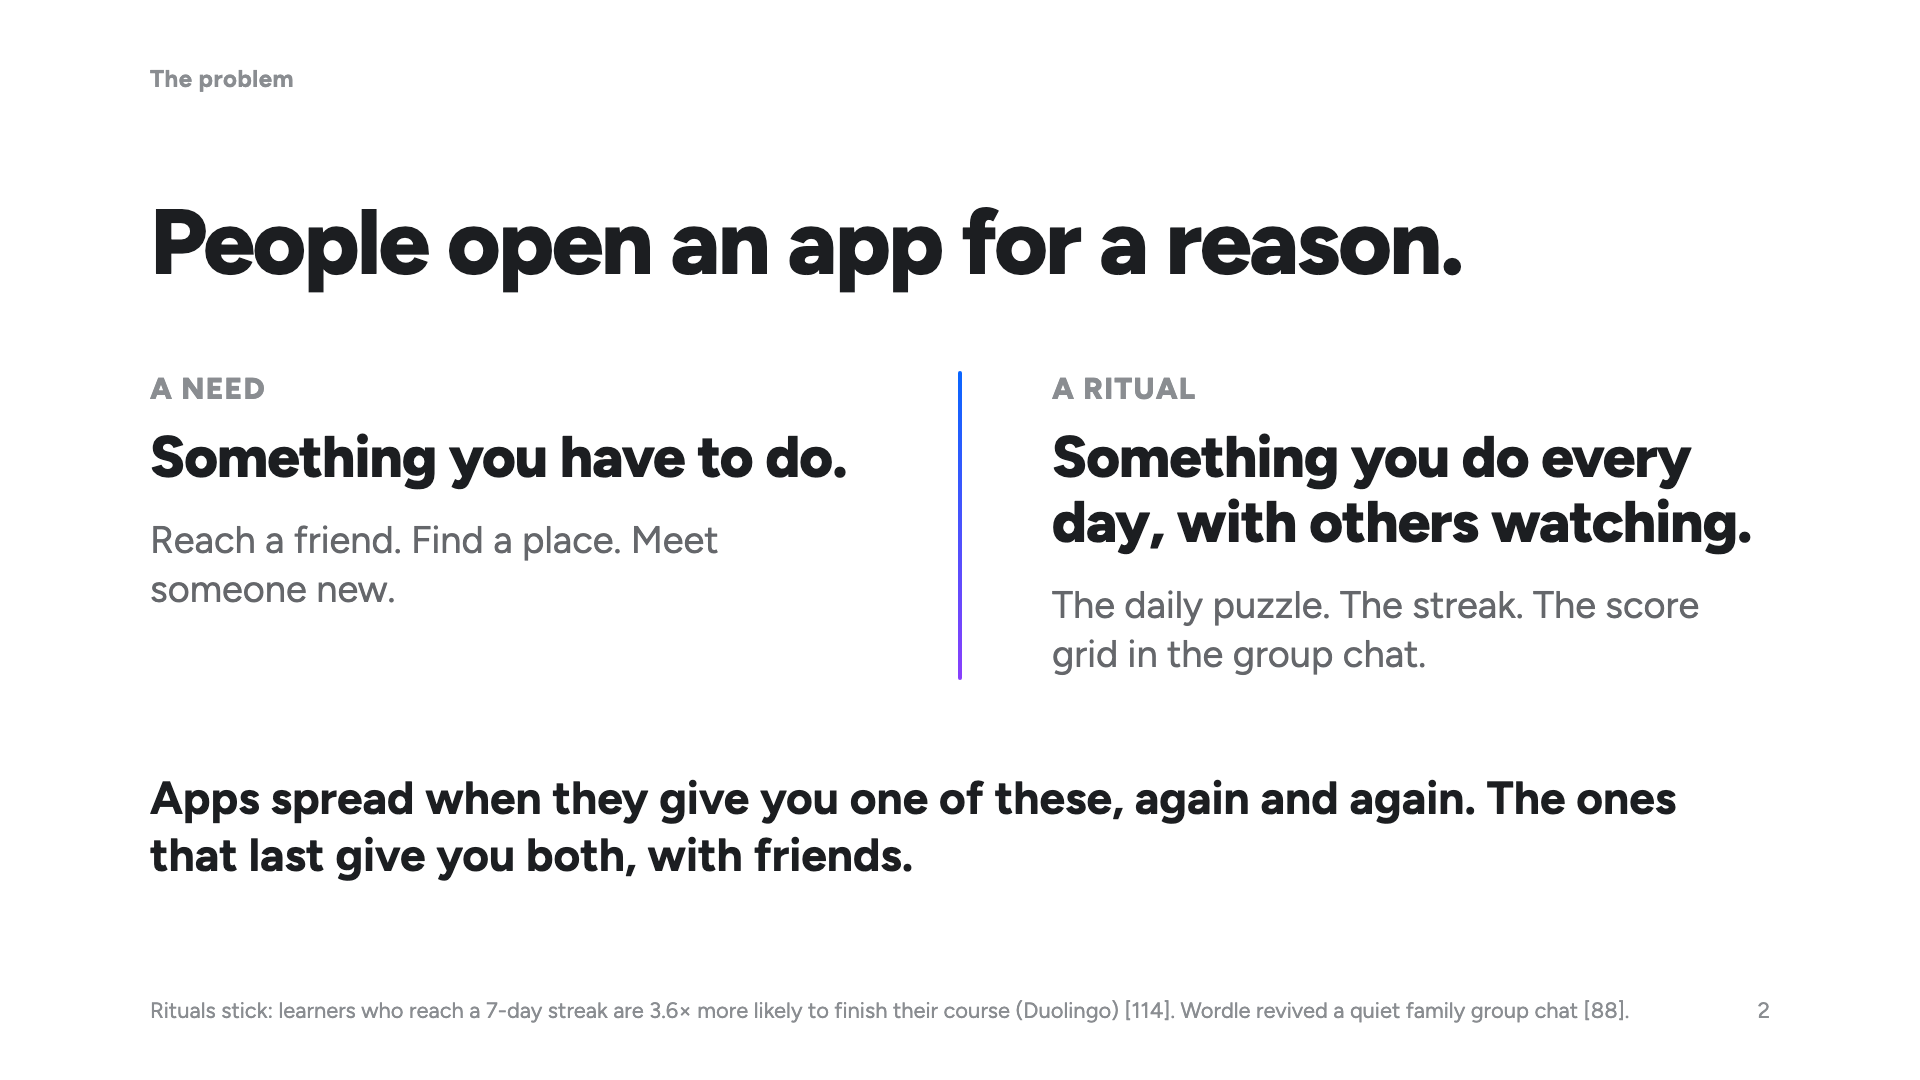
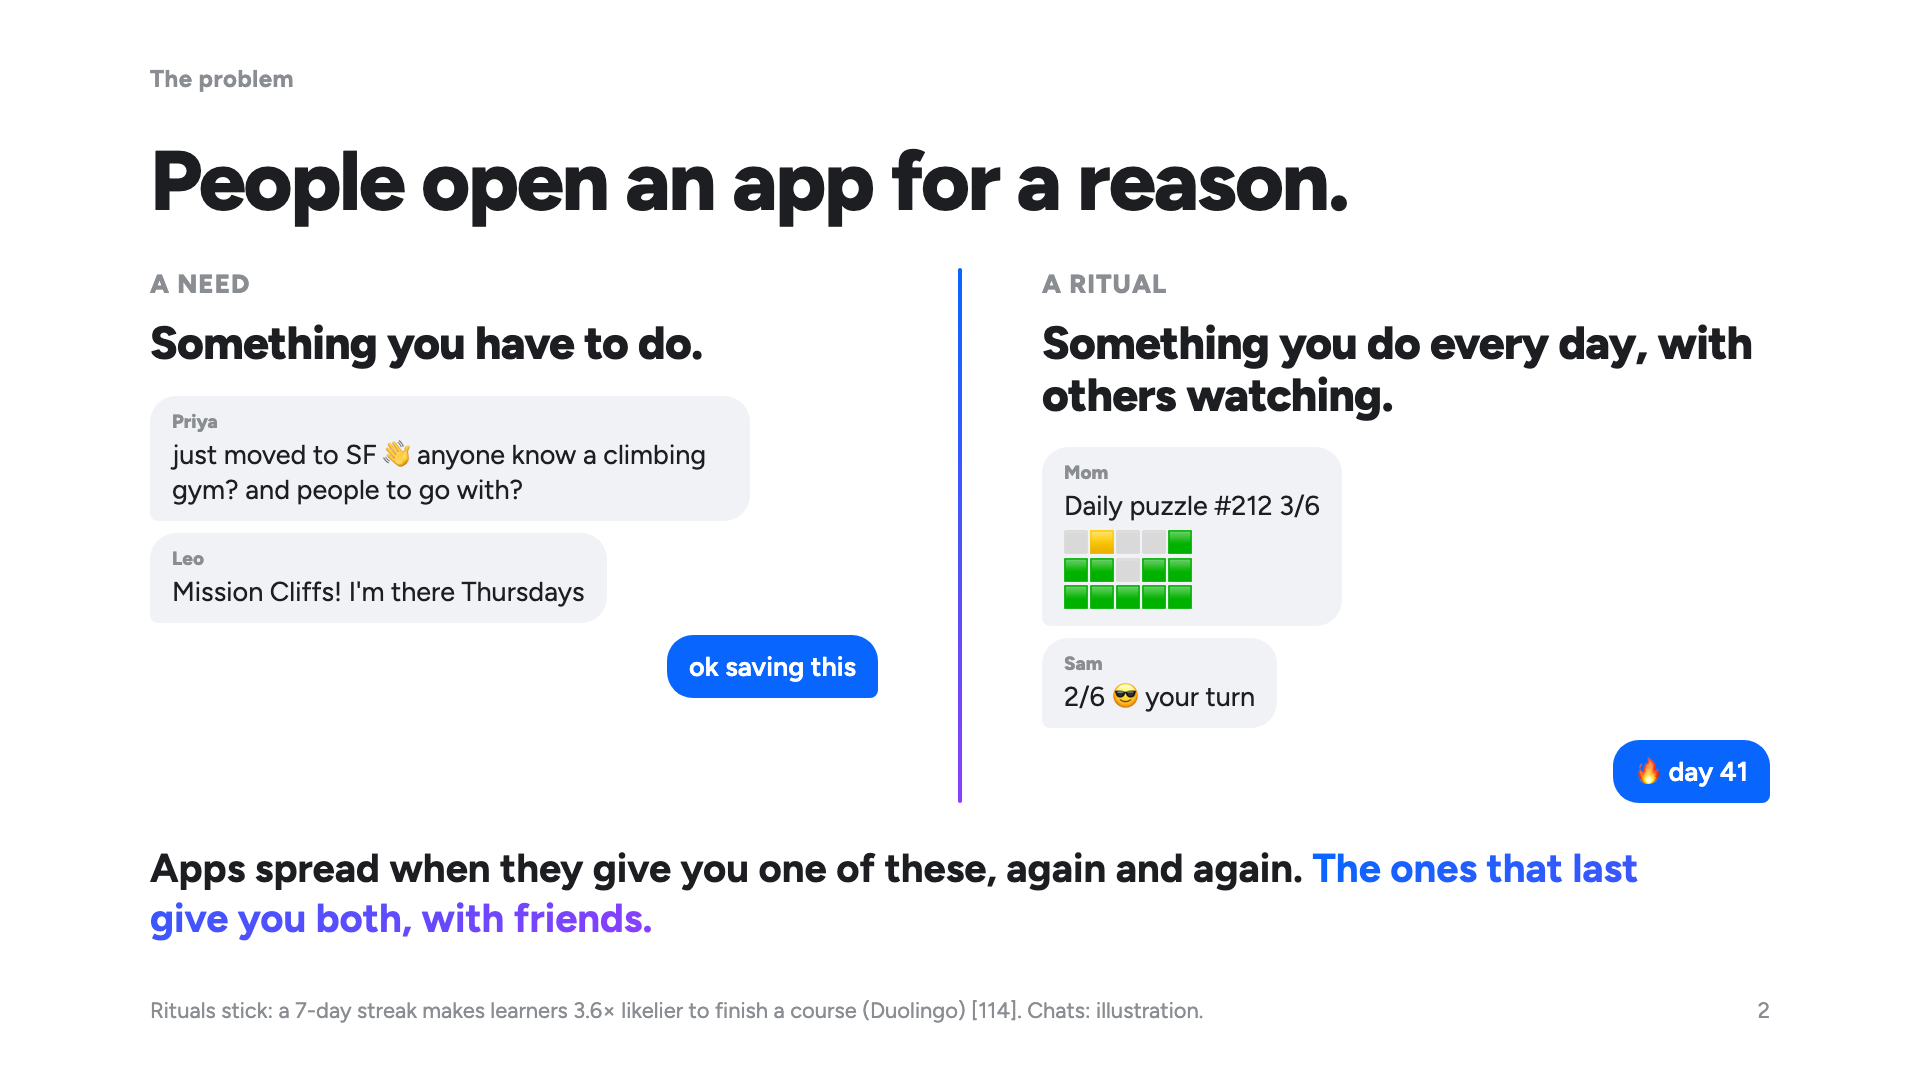
Slides 2, 10, 11: chat mocks for a need and a ritual, a captioned commits chart, and only the Muse models we use in the closing footer

diff --git a/docs/pr/slides/deck.html b/docs/pr/slides/deck.html
@@ -380,6 +380,21 @@ h2 { font-size: 96px; line-height: 1.04; font-weight: 800; letter-spacing: -.025
 .hxmm img { flex: none; width: 92px; height: 150px; object-fit: cover; object-position: top; border-radius: 12px; display: block; box-shadow: 0 8px 18px rgba(16,24,64,.16); }
 .hxmm figcaption { font-size: 13px; font-weight: 700; color: var(--sub); margin-top: 6px; line-height: 1.15; }
 .hxmm p { font-size: 21px; color: var(--sub); line-height: 1.3; } .hxmm p b { font-size: 26px; margin-bottom: 4px; color: var(--ink); }
+
+/* slide 2: chat mocks */
+.why2 .why2g { margin-top: 44px; gap: 80px; } .why2 h2 { font-size: 84px; }
+.why2 .wc b { font-size: 46px; } .why2 .wc em { font-size: 26px; }
+.chat { margin-top: 26px; display: flex; flex-direction: column; gap: 12px; }
+.msg { max-width: 600px; font-size: 27px; line-height: 1.3; padding: 14px 22px; border-radius: 26px; }
+.msg.in { background: var(--soft); align-self: flex-start; border-bottom-left-radius: 8px; color: var(--ink); }
+.msg.me { background: var(--blue); color: #fff; align-self: flex-end; border-bottom-right-radius: 8px; font-weight: 600; }
+.msg i { display: block; font-style: normal; font-size: 19px; font-weight: 800; color: var(--muted); margin-bottom: 2px; }
+.msg .grid { display: block; font-size: 24px; line-height: 1.15; margin-top: 6px; letter-spacing: 2px; }
+.why2 .why2s { font-size: 40px; margin-top: 40px; }
+
+.cph2 { display: flex; align-items: flex-end; gap: 50px; margin-top: 24px; }
+.cpl { flex: none; width: 400px; padding-bottom: 50px; } .cpl b { display: block; white-space: nowrap; font-size: 64px; font-weight: 900; background: var(--grad); -webkit-background-clip: text; color: transparent; }
+.cpl span { display: block; font-size: 26px; color: var(--ink); font-weight: 700; line-height: 1.25; margin-top: 4px; } .cpl small { display: block; font-size: 20px; color: var(--muted); margin-top: 12px; }
 </style>
 </head>
 <body>
@@ -399,12 +414,14 @@ h2 { font-size: 96px; line-height: 1.04; font-weight: 800; letter-spacing: -.025
   <div class="label">The problem</div>
   <h2>People open an app for a reason.</h2>
   <div class="why2g">
-    <div class="wc"><em>A need</em><b>Something you have to do.</b><p>Reach a friend. Find a place. Meet someone new.</p></div>
+    <div class="wc"><em>A need</em><b>Something you have to do.</b>
+      <div class="chat"><div class="msg in"><i>Priya</i>just moved to SF 👋 anyone know a climbing gym? and people to go with?</div><div class="msg in"><i>Leo</i>Mission Cliffs! I'm there Thursdays</div><div class="msg me">ok saving this</div></div></div>
     <div class="wdiv"></div>
-    <div class="wc"><em>A ritual</em><b>Something you do every day, with others watching.</b><p>The daily puzzle. The streak. The score grid in the group chat.</p></div>
+    <div class="wc"><em>A ritual</em><b>Something you do every day, with others watching.</b>
+      <div class="chat"><div class="msg in"><i>Mom</i>Daily puzzle #212 3/6<span class="grid">⬜🟨⬜⬜🟩<br>🟩🟩⬜🟩🟩<br>🟩🟩🟩🟩🟩</span></div><div class="msg in"><i>Sam</i>2/6 😎 your turn</div><div class="msg me">🔥 day 41</div></div></div>
   </div>
-  <div class="why2s">Apps spread when they give you one of these, again and again. The ones that last give you both, with friends.</div>
-  <div class="foot"><span>Rituals stick: learners who reach a 7-day streak are 3.6× more likely to finish their course (Duolingo) [114]. Wordle revived a quiet family group chat [88].</span><span class="pg"></span></div>
+  <div class="why2s">Apps spread when they give you one of these, again and again. <span class="grad">The ones that last give you both, with friends.</span></div>
+  <div class="foot"><span>Rituals stick: a 7-day streak makes learners 3.6× likelier to finish a course (Duolingo) [114]. Chats: illustration.</span><span class="pg"></span></div>
 </section>
 
 <section class="slide">
@@ -560,15 +577,15 @@ h2 { font-size: 96px; line-height: 1.04; font-weight: 800; letter-spacing: -.025
     <div class="cd"><em>In sync</em><b>Two sessions, one answer</b><p>"Can the app attach photos yet?" came back with the build and the exact taps, minutes later.</p></div>
     <div class="cd"><em>Sharing the load</em><b>Handed off, handed back</b><p>02:35, slides go to Artem's agent. Ten reviewed drafts later, 04:55, back to Karthik's Mac.</p></div>
   </div>
-  <div class="cph2"><svg viewBox="0 0 1500 450" width="1620" height="300"><defs><linearGradient id="cg" x1="0" y1="1" x2="0" y2="0"><stop offset="0" stop-color="#0866FF"/><stop offset="1" stop-color="#8A3FFC"/></linearGradient></defs>
+  <div class="cph2"><div class="cpl"><b>624 commits</b><span>in 35 hours, 87% co-written with an agent</span><small>commits per hour on main</small></div><svg viewBox="0 0 1500 450" width="1067" height="320"><defs><linearGradient id="cg" x1="0" y1="1" x2="0" y2="0"><stop offset="0" stop-color="#0866FF"/><stop offset="1" stop-color="#8A3FFC"/></linearGradient></defs>
       <line x1="0" y1="400" x2="1500" y2="400" stroke="#E4E6EB" stroke-width="3"/><rect x="3.0" y="394.4" width="36.9" height="5.6" rx="4" fill="url(#cg)"/><rect x="45.9" y="383.2" width="36.9" height="16.8" rx="4" fill="url(#cg)"/><rect x="88.7" y="360.9" width="36.9" height="39.1" rx="4" fill="url(#cg)"/><rect x="131.6" y="383.2" width="36.9" height="16.8" rx="4" fill="url(#cg)"/><rect x="174.4" y="400.0" width="36.9" height="0.0" rx="4" fill="url(#cg)"/><rect x="217.3" y="400.0" width="36.9" height="0.0" rx="4" fill="url(#cg)"/><rect x="260.1" y="400.0" width="36.9" height="0.0" rx="4" fill="url(#cg)"/><rect x="303.0" y="400.0" width="36.9" height="0.0" rx="4" fill="url(#cg)"/><rect x="345.9" y="400.0" width="36.9" height="0.0" rx="4" fill="url(#cg)"/><rect x="388.7" y="400.0" width="36.9" height="0.0" rx="4" fill="url(#cg)"/><rect x="431.6" y="400.0" width="36.9" height="0.0" rx="4" fill="url(#cg)"/><rect x="474.4" y="400.0" width="36.9" height="0.0" rx="4" fill="url(#cg)"/><rect x="517.3" y="400.0" width="36.9" height="0.0" rx="4" fill="url(#cg)"/><rect x="560.1" y="400.0" width="36.9" height="0.0" rx="4" fill="url(#cg)"/><rect x="603.0" y="400.0" width="36.9" height="0.0" rx="4" fill="url(#cg)"/><rect x="645.9" y="349.7" width="36.9" height="50.3" rx="4" fill="url(#cg)"/><rect x="688.7" y="377.6" width="36.9" height="22.4" rx="4" fill="url(#cg)"/><rect x="731.6" y="388.8" width="36.9" height="11.2" rx="4" fill="url(#cg)"/><rect x="774.4" y="176.5" width="36.9" height="223.5" rx="4" fill="url(#cg)"/><rect x="817.3" y="137.4" width="36.9" height="262.6" rx="4" fill="url(#cg)"/><rect x="860.1" y="338.5" width="36.9" height="61.5" rx="4" fill="url(#cg)"/><rect x="903.0" y="187.6" width="36.9" height="212.4" rx="4" fill="url(#cg)"/><rect x="945.9" y="265.9" width="36.9" height="134.1" rx="4" fill="url(#cg)"/><rect x="988.7" y="260.3" width="36.9" height="139.7" rx="4" fill="url(#cg)"/><rect x="1031.6" y="372.1" width="36.9" height="27.9" rx="4" fill="url(#cg)"/><rect x="1074.4" y="383.2" width="36.9" height="16.8" rx="4" fill="url(#cg)"/><rect x="1117.3" y="120.6" width="36.9" height="279.4" rx="4" fill="url(#cg)"/><rect x="1160.1" y="193.2" width="36.9" height="206.8" rx="4" fill="url(#cg)"/><rect x="1203.0" y="237.9" width="36.9" height="162.1" rx="4" fill="url(#cg)"/><rect x="1245.9" y="20.0" width="36.9" height="380.0" rx="4" fill="url(#cg)"/><rect x="1288.7" y="59.1" width="36.9" height="340.9" rx="4" fill="url(#cg)"/><rect x="1331.6" y="170.9" width="36.9" height="229.1" rx="4" fill="url(#cg)"/><rect x="1374.4" y="210.0" width="36.9" height="190.0" rx="4" fill="url(#cg)"/><rect x="1417.3" y="20.0" width="36.9" height="380.0" rx="4" fill="url(#cg)"/><rect x="1460.1" y="321.8" width="36.9" height="78.2" rx="4" fill="url(#cg)"/><text x="21.4" y="440" text-anchor="start" font-size="24" fill="#65676B" font-family="Figtree">Wed 6 pm</text><text x="664.3" y="440" text-anchor="middle" font-size="24" fill="#65676B" font-family="Figtree">Thu 9 am</text><text x="1050.0" y="440" text-anchor="middle" font-size="24" fill="#65676B" font-family="Figtree">Thu 6 pm</text><text x="1307.1" y="440" text-anchor="middle" font-size="24" fill="#65676B" font-family="Figtree">Fri midnight</text><text x="1478.6" y="440" text-anchor="end" font-size="24" fill="#65676B" font-family="Figtree">Fri 4 am</text>
-      <text x="0" y="16" font-size="22" fill="#8A8D91" font-family="Figtree">68 commits</text></svg></div>
-  <div class="foot"><span>Commits per hour on main: 624 in 35 hours, 87% co-written with an agent (git log, 04:30 PST). Synced through Slack, a shared canvas and CLAUDE.md.</span><span class="pg"></span></div>
+      <text x="1240" y="14" text-anchor="end" font-size="22" fill="#8A8D91" font-family="Figtree">peak: 68 an hour</text></svg></div>
+  <div class="foot"><span>git log on main, 04:30 PST. Agents synced through Slack, a shared canvas and CLAUDE.md.</span><span class="pg"></span></div>
 </section>
 
 <section class="slide close">
   <h2>When the world is your muse, how will you create the content of tomorrow?</h2>
-  <div class="foot"><span>Muse Curios, a new feature in Facebook · made with Muse Spark, Ember, Wonder and Image</span><span>Thank you</span></div>
+  <div class="foot"><span>Muse Curios, a new feature in Facebook · made with Muse Spark, Muse Wonder and Muse Image</span><span>Thank you</span></div>
 </section>
 
 <script>

diff --git a/docs/pr/slides/notes.md b/docs/pr/slides/notes.md
@@ -35,7 +35,7 @@
 People have always gathered around small, strange, delightful things: curios. Muse Curios is a new feature in Facebook: an interactive short-form experience with infinite possibility, meant to breed collaboration through friendly competitiveness. *(Start Demo 1: say the sentence, tap Make, agree the plan.)*
 
 ## 2
-Why do people open an app? For a reason: a need, something you have to do, or a ritual, something you do every day with others watching. Apps spread when they give you one of these again and again. The ones that last give you both, with friends.
+Why do people open an app? For a reason. A need: you just moved, and you're asking where to climb and who'll come with you. Or a ritual: the daily puzzle grid your mom posts in the family chat, and the streak you keep so you can reply. Apps spread when they give you one of these again and again. The ones that last give you both, with friends.
 
 ## 3
 Facebook has the people, but it's lost that reason for people our age: teen use fell from 71% to 32%. And the need is still there: 19-to-29-year-olds are the loneliest age group, and a quarter of 18-to-24s moved last year.
